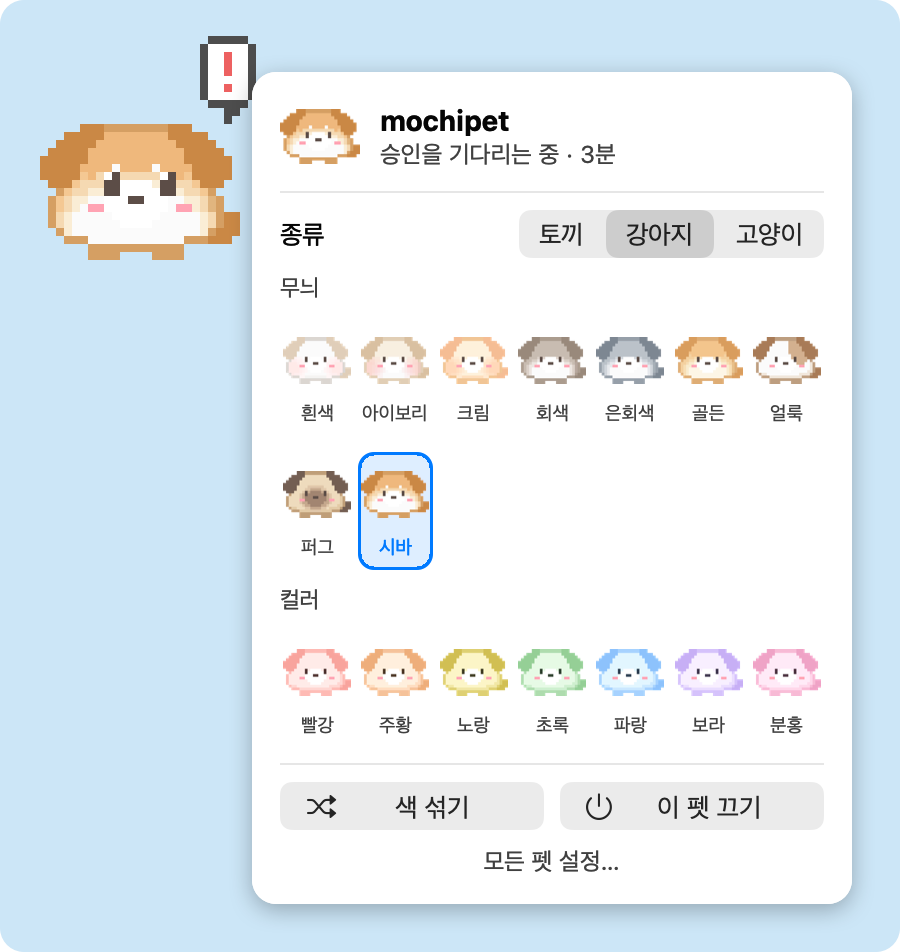
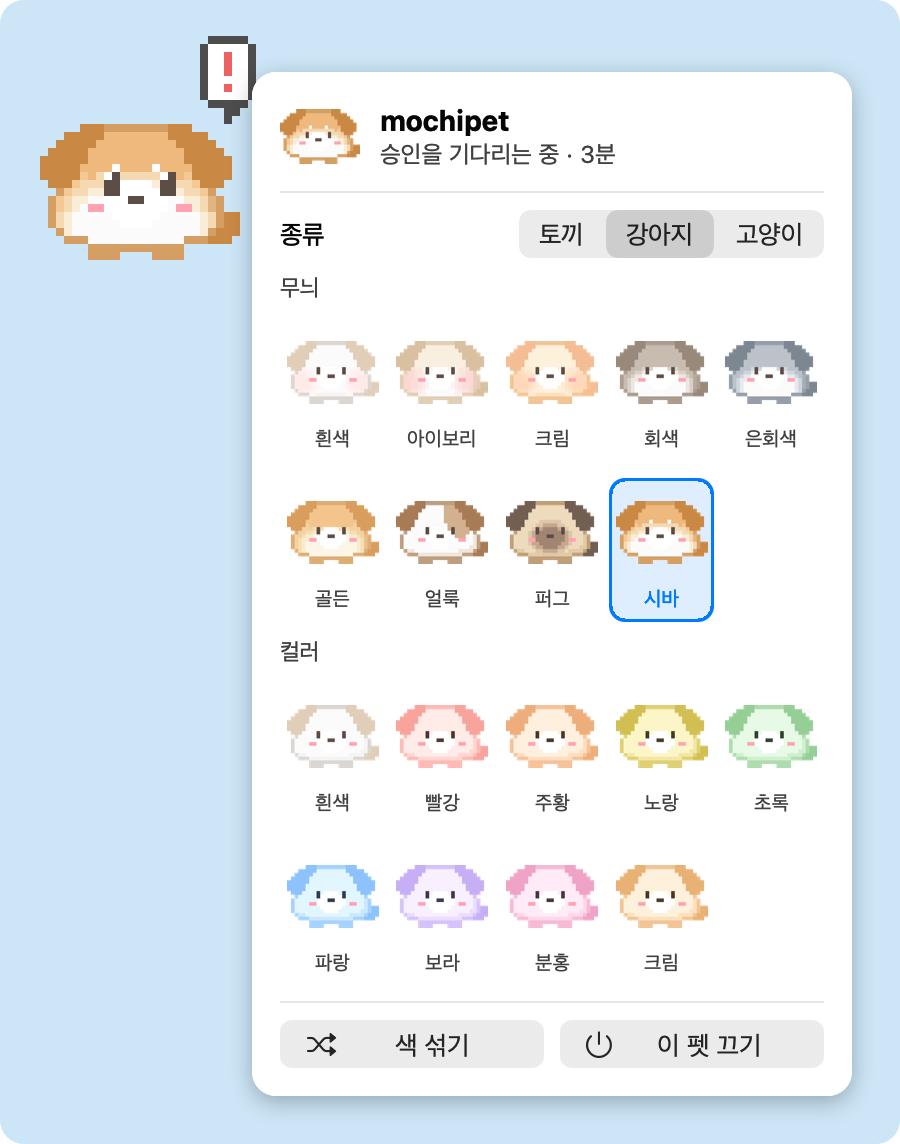
fix: 펫 우클릭 판이 버벅이거나 안 닫히거나 저절로 닫히던 것을 고침
* 판을 펫 창이 아니라 펫 자리에 깔아 둔 투명한 창에 붙임. 펫이 걸어가면 판이 따라 움직이거나 저절로 닫혔기 때문
* 판 밖을 누르면 닫히게 마우스 누름을 직접 지켜봄. Dock 에 없는 앱이라 판이 알아서 닫히지 않았기 때문
* 종류나 색을 바꾸면 세션 파일을 바로 읽어서 판을 다시 그림. 다음 sync 를 0.6초 기다리느라 버벅였기 때문
* 얼굴 그림의 빈 둘레를 찾을 때 픽셀마다 색을 묻지 않고 알파 바이트를 바로 읽음. 종류를 바꿀 때마다 느렸기 때문
* 색 칸을 한 줄 다섯 개로 키우고 컬러 줄에 흰색과 크림을 넣음. README 의 색상 그림과 같게 하려는 것
* '모든 펫 설정' 줄을 뺌. 느리고 버그가 있었기 때문
* 메뉴 막대 판의 목록이 다섯 줄을 넘으면 'N마리 더 (스크롤)' 을 적고, README 의 메뉴 그림도 일곱 마리로 뽑음

Changed region(s): [[0.0311, 0.0305, 0.9644, 0.9748], [0.9956, 0.9748, 1.0, 1.0]]

diff --git a/Sources/main.swift b/Sources/main.swift
@@ -342,6 +342,10 @@ func recolor(_ id: String, _ want: String) {
           let line = coatName(want, kind: now[5]) ?? (coats.contains { $0.en == want } ? nil : hueLine(want.isEmpty ? nil : want, kind: now[5], except: f)) else { return }
     now[3] = line; writeSession(f, now)
 }
+func setLook(_ id: String, _ line: String) {        // 색 줄에 적을 값을 그대로 적는다 (우클릭 판의 칸을 눌렀을 때)
+    guard let f = file(id), var now = readSession(f) else { return }
+    now[3] = line; writeSession(f, now)
+}
 func setKind(_ id: String, _ k: String) {
     guard let f = file(id), var now = readSession(f) else { return }
     now[5] = k
@@ -356,11 +360,13 @@ func portrait(kind: String, coat: String, hue: CGFloat?) -> NSImage {
     if let p = portraits[key] { return p }
     let img = drawn("idle_0", hue: hue, kind: kind, coat: coat)
     guard let cg = img.cgImage(forProposedRect: nil, context: nil, hints: nil) else { return img }
-    let rep = NSBitmapImageRep(cgImage: cg)
-    var x0 = rep.pixelsWide, x1 = -1, y0 = rep.pixelsHigh, y1 = -1
-    for y in 0..<rep.pixelsHigh {
-        for x in 0..<rep.pixelsWide where (rep.colorAt(x: x, y: y)?.alphaComponent ?? 0) > 0.05 { x0 = min(x0, x); x1 = max(x1, x); y0 = min(y0, y); y1 = max(y1, y) }
-    }
+    // 알파만 8비트로 다시 그려서 바이트를 바로 읽는다. 픽셀마다 색을 묻는 것보다 훨씬 빠르다
+    let w = cg.width, h = cg.height
+    var alpha = [UInt8](repeating: 0, count: w * h)
+    guard let ctx = CGContext(data: &alpha, width: w, height: h, bitsPerComponent: 8, bytesPerRow: w, space: CGColorSpaceCreateDeviceGray(), bitmapInfo: CGImageAlphaInfo.alphaOnly.rawValue) else { return img }
+    ctx.draw(cg, in: CGRect(x: 0, y: 0, width: w, height: h))
+    var x0 = w, x1 = -1, y0 = h, y1 = -1
+    for y in 0..<h { for x in 0..<w where alpha[y * w + x] > 12 { x0 = min(x0, x); x1 = max(x1, x); y0 = min(y0, y); y1 = max(y1, y) } }
     guard x1 >= x0, let cut = cg.cropping(to: CGRect(x: x0, y: y0, width: x1 - x0 + 1, height: y1 - y0 + 1)) else { return img }
     let p = NSImage(cgImage: cut, size: NSSize(width: cut.width, height: cut.height))
     portraits[key] = p
@@ -379,10 +385,9 @@ func appIcon(_ side: CGFloat) -> NSImage {
 }
 
 // 펫 우클릭 판: 머리말(얼굴, 이름, 상태), 종류, 무늬, 컬러, 색 섞기, 이 펫 끄기. 메뉴 막대 판과 같은 모양으로 그린다
-final class Card: NSObject {
+final class Card: NSObject, NSPopoverDelegate {
     let pop = NSPopover()
     var id = ""
-    weak var anchor: NSView?
 
     // 판을 그 펫의 지금 상태로 만든다. 무늬는 그 종류가 쓰는 것만 그 종류의 얼굴로 보여 준다
     func view(for r: Row) -> NSView {
@@ -407,30 +412,31 @@ final class Card: NSObject {
         kinds.selectedSegment = builtinKinds.firstIndex(of: r.kind) ?? 0
         add(bar.line(bar.text("종류"), kinds))
 
-        // 한 줄에 일곱 칸. 칸마다 얼굴과 이름을 두고, 지금 색인 칸에 테두리를 두른다
-        func grid(_ title: String, _ items: [(name: String, want: String, coat: String, hue: CGFloat?)]) {
+        // 한 줄에 다섯 칸. 칸마다 얼굴과 이름을 두고, 지금 색인 칸에 테두리를 두른다
+        func grid(_ title: String, _ items: [(name: String, line: String)]) {     // line 은 세션 파일의 색 줄에 적을 값이다
             add(bar.text(title, 11.5, gray: true))
-            for start in stride(from: 0, to: items.count, by: 7) {
-                let cells: [NSView] = (start..<start + 7).map { i in
+            for start in stride(from: 0, to: items.count, by: 5) {
+                let cells: [NSView] = (start..<start + 5).map { i in
                     guard i < items.count else { return NSView() }
-                    let it = items[i], on = picked(it.want, line: r.look) || it.want == lookName(r.look, kind: r.kind)
-                    let name = bar.text(it.name, 9.5, gray: true); name.alignment = .center
+                    let it = items[i], on = lookName(r.look, kind: r.kind) == it.line
+                    let name = bar.text(it.name, 10, gray: true); name.alignment = .center
                     if on { name.textColor = .controlAccentColor }
-                    let col = NSStackView(views: [face(34, coat: it.coat, hue: it.hue), name]); col.orientation = .vertical; col.spacing = 4
+                    let col = NSStackView(views: [face(46, coat: Double(it.line) == nil ? it.line : "", hue: Double(it.line).map { CGFloat($0) }), name]); col.orientation = .vertical; col.spacing = 4
                     let cell = RowView(); cell.wantsLayer = true; cell.layer?.cornerRadius = 8
                     if on { cell.layer?.backgroundColor = NSColor.controlAccentColor.withAlphaComponent(0.13).cgColor; cell.layer?.borderColor = NSColor.controlAccentColor.cgColor; cell.layer?.borderWidth = 1.5 }
                     cell.addSubview(col); col.translatesAutoresizingMaskIntoConstraints = false
                     NSLayoutConstraint.activate([col.centerXAnchor.constraint(equalTo: cell.centerXAnchor), col.topAnchor.constraint(equalTo: cell.topAnchor, constant: 4),
                                                  col.bottomAnchor.constraint(equalTo: cell.bottomAnchor, constant: -5)])
-                    cell.onClick = { [weak self] in recolor(r.id, it.want); self?.reload(soon: true) }
+                    cell.onClick = { [weak self] in setLook(r.id, it.line); self?.reload() }
                     return cell
                 }
                 let row = NSStackView(views: cells); row.distribution = .fillEqually; row.spacing = 2
                 add(row)
             }
         }
-        grid("무늬", coats.filter { wears(r.kind, $0) }.map { ($0.ko, $0.en, $0.en, nil) })
-        grid("컬러", colors.map { ($0.ko, $0.en, "", CGFloat($0.degrees / 360)) })
+        // README 의 색상 그림과 같은 순서다. 무늬는 그 종류가 쓰는 것만, 컬러는 흰색, 색상환 색, 크림 순이다
+        grid("무늬", coats.filter { wears(r.kind, $0) }.map { ($0.ko, $0.en) })
+        grid("컬러", [("흰색", "plain")] + colors.map { ($0.ko, String($0.degrees / 360)) } + [("크림", String(creamHue))])
         rule()
 
         let mix = NSButton(title: "색 섞기", image: bar.symbol("shuffle"), target: self, action: #selector(shuffle))
@@ -438,37 +444,54 @@ final class Card: NSObject {
         for b in [mix, off] { b.imagePosition = .imageLeading; b.bezelStyle = .rounded }
         let buttons = NSStackView(views: [mix, off]); buttons.distribution = .fillEqually; buttons.spacing = 8
         add(buttons)
-        // 메뉴 막대가 꽉 찬 화면에서는 발바닥 아이콘이 노치 뒤로 밀려 안 보이므로, 모든 펫의 설정을 여기서도 열 수 있게 한다
-        let all = NSButton(title: "모든 펫 설정…", target: self, action: #selector(openAll)); all.isBordered = false; all.contentTintColor = .secondaryLabelColor
-        all.font = .systemFont(ofSize: 12)
-        add(all)
         return root
     }
 
+    // 판은 펫 자리에 깔아 둔 투명한 창에 붙인다. 펫 창에 바로 붙이면 펫이 걸어갈 때 판이 따라 움직이거나 저절로 닫힌다
     func show(_ id: String, at v: NSView) {
-        self.id = id; anchor = v
-        guard let r = bar.rows().first(where: { $0.id == id }) else { return }
+        guard let from = v.window?.frame else { return }
+        self.id = id
+        guard let r = current() else { return }
+        spot.setFrame(from, display: false); spot.orderFrontRegardless()
         let vc = NSViewController(); vc.view = view(for: r)
-        pop.contentViewController = vc; pop.behavior = .transient; pop.contentSize = vc.view.fittingSize
-        pop.show(relativeTo: v.bounds, of: v, preferredEdge: .maxX)
-        NSApp.activate(ignoringOtherApps: true)              // 판 밖을 누르면 닫히게 한다
+        pop.contentViewController = vc; pop.animates = false; pop.delegate = self; pop.contentSize = vc.view.fittingSize
+        pop.show(relativeTo: spot.contentView!.bounds, of: spot.contentView!, preferredEdge: .maxX)
+        NSApp.activate(ignoringOtherApps: true)
+        watch()
     }
-    // 바꾼 것이 세션 파일에서 펫으로 넘어온 뒤(다음 sync)에 판을 다시 그린다
-    func reload(soon: Bool) {
-        DispatchQueue.main.asyncAfter(deadline: .now() + (soon ? 0.6 : 0)) { [weak self] in
-            guard let self = self, self.pop.isShown, let r = bar.rows().first(where: { $0.id == self.id }) else { return }
-            let v = self.view(for: r); self.pop.contentViewController?.view = v; self.pop.contentSize = v.fittingSize
-        }
+    lazy var spot: NSPanel = {
+        let w = NSPanel(contentRect: .zero, styleMask: [.borderless, .nonactivatingPanel], backing: .buffered, defer: false)
+        w.isOpaque = false; w.backgroundColor = .clear; w.ignoresMouseEvents = true; w.level = .floating; w.contentView = NSView()
+        return w
+    }()
+
+    // 판 밖을 누르면 닫는다. 펫 앱은 Dock 에 없는 앱이라 판이 알아서 닫히지 않을 때가 있어서 직접 지켜본다
+    var watchers: [Any] = []
+    func watch() {
+        unwatch()
+        let downs: NSEvent.EventTypeMask = [.leftMouseDown, .rightMouseDown]
+        if let g = NSEvent.addGlobalMonitorForEvents(matching: downs, handler: { [weak self] _ in self?.pop.close() }) { watchers.append(g) }
+        if let l = NSEvent.addLocalMonitorForEvents(matching: downs, handler: { [weak self] e in
+            if let me = self, e.window != me.pop.contentViewController?.view.window { me.pop.close() }
+            return e
+        }) { watchers.append(l) }
     }
-    @objc func pickKind(_ c: NSSegmentedControl) { setKind(id, builtinKinds[c.selectedSegment]); reload(soon: true) }
-    @objc func shuffle() { recolor(id, ""); reload(soon: true) }
+    func unwatch() { watchers.forEach(NSEvent.removeMonitor); watchers = [] }
+    func popoverDidClose(_ n: Notification) { unwatch() }
+
+    // 이 펫의 지금 모습을 세션 파일에서 바로 읽는다. 다음 sync 를 기다리지 않아서 누르자마자 판이 바뀐다
+    func current() -> Row? { file(id).flatMap(readSession).map { bar.row(id, $0) } }
+    func reload() {
+        guard pop.isShown, let r = current() else { return }
+        let v = view(for: r); pop.contentViewController?.view = v; pop.contentSize = v.fittingSize
+    }
+    @objc func pickKind(_ c: NSSegmentedControl) { setKind(id, builtinKinds[c.selectedSegment]); reload() }
+    @objc func shuffle() { recolor(id, ""); reload() }
     @objc func dismiss() { petOff(id); pop.close() }
-    @objc func openAll() { pop.close(); if let v = anchor { bar.open(from: v, edge: .maxX) } }
 }
 
 // 메뉴 막대 아이콘. 누르면 판이 열린다: 세션 목록, 모으기·색 섞기, 날지 않기·모두 숨기기·랜덤, 투명도·크기.
 // 투명도, 크기, 날지 않기는 UserDefaults 에 남기고, 숨김은 남기지 않는다. 펫이 하나도 없으면 앱이 끝나므로 아이콘도 사라진다.
-// 메뉴 막대가 꽉 찬 화면에서는 아이콘이 노치 뒤로 밀려 안 보이므로, 펫 우클릭 판의 "모든 펫 설정" 에서도 이 판을 연다.
 // 판의 세션 한 줄. since 는 지금 상태가 된 시각이고, host 는 눌렀을 때 열 곳이다 (세션 파일 셋째 줄)
 struct Row { var id, name, state: String, since: Date, kind, look: String, host: String    // look 은 세션 파일의 색 줄 (무늬 이름이나 색상환 위치)
     var coat: String { Double(look) == nil ? look : "" }
@@ -494,7 +517,7 @@ final class Bar: NSObject {
     lazy var item = NSStatusBar.system.statusItem(withLength: NSStatusItem.variableLength)
     var sliders: [(view: NSSlider, now: () -> Double, text: NSTextField, say: () -> String)] = []   // 슬라이더, 지금 값, 값을 적는 글자
     let pop = NSPopover()
-    let list = TopDown(), scroll = NSScrollView(), subtitle = NSTextField(labelWithString: "")
+    let list = TopDown(), scroll = NSScrollView(), subtitle = NSTextField(labelWithString: ""), more = NSTextField(labelWithString: "")
     let ground = NSSwitch(), hide = NSSwitch(), random = NSSegmentedControl(labels: ["무늬", "컬러"], trackingMode: .selectOne, target: nil, action: nil)
     var times: [(since: Date, text: NSTextField)] = []      // 줄마다의 지난 시간. 줄을 다시 만들지 않고 글자만 고친다
     var listed = "", listHeight: NSLayoutConstraint?
@@ -554,7 +577,8 @@ final class Bar: NSObject {
         scroll.documentView = list; scroll.drawsBackground = false; scroll.hasVerticalScroller = true; scroll.autohidesScrollers = true
         list.widthAnchor.constraint(equalTo: scroll.contentView.widthAnchor).isActive = true
         listHeight = scroll.heightAnchor.constraint(equalToConstant: rowHeight); listHeight?.isActive = true
-        add(scroll); rule()
+        more.font = .systemFont(ofSize: 11.5); more.textColor = .secondaryLabelColor; more.alignment = .center
+        add(scroll); add(more); rule()
 
         let gatherAll = NSButton(title: "모으기", image: symbol("display"), target: self, action: #selector(gather))
         let mix = NSButton(title: "색 섞기", image: symbol("shuffle"), target: self, action: #selector(shuffleAll))
@@ -581,10 +605,11 @@ final class Bar: NSObject {
     // 떠 있는 펫을 판에 올릴 줄로 바꾼다. 지난 시간은 세션 파일이 마지막으로 바뀐 시각부터 센다
     // ponytail: 색이나 이름을 바꿔도 파일이 바뀌어서 시간이 0 으로 돌아간다. 거슬리면 상태가 바뀐 시각을 파일에 따로 적는다
     func rows() -> [Row] {
-        sessions.shown.map { id, l in
-            Row(id: id, name: sessions.pets[id]?.label ?? "", state: l[0], since: file(id).map(modified) ?? Date(),
-                kind: l[5].isEmpty ? defaultKind : l[5], look: l[3], host: l[2])
-        }
+        sessions.shown.map { row($0, $1) }
+    }
+    func row(_ id: String, _ l: [String]) -> Row {
+        Row(id: id, name: sessions.pets[id]?.label ?? "", state: l[0], since: file(id).map(modified) ?? Date(),
+            kind: l[5].isEmpty ? defaultKind : l[5], look: l[3], host: l[2])
     }
 
     // 세션 목록과 머리말을 채운다. 줄의 내용이 그대로면 지난 시간만 고친다 (스크롤 자리가 유지된다)
@@ -616,18 +641,17 @@ final class Bar: NSObject {
                 list.addArrangedSubview(v); v.widthAnchor.constraint(equalTo: list.widthAnchor).isActive = true
             }
             listHeight?.constant = rowHeight * CGFloat(min(max(rows.count, 1), maxRows))
+            more.stringValue = "⌄ \(rows.count - maxRows)마리 더 (스크롤)"; more.isHidden = rows.count <= maxRows   // 목록에 다 안 보일 때만 알린다
         }
         for t in times { t.text.stringValue = ago(t.since) }
     }
 
     @objc func toggle() {
-        if pop.isShown { pop.close() } else if let b = item.button { open(from: b, edge: .minY) }
-    }
-    // 판을 연다. 메뉴 막대 아이콘에서도, 펫 우클릭 판의 "모든 펫 설정" 에서도 연다
-    func open(from v: NSView, edge: NSRectEdge) {
+        guard let b = item.button else { return }
+        if pop.isShown { pop.close(); return }
         fill(rows()); refresh()
         pop.contentSize = panel.fittingSize
-        pop.show(relativeTo: v.bounds, of: v, preferredEdge: edge)
+        pop.show(relativeTo: b.bounds, of: b, preferredEdge: .minY)
         NSApp.activate(ignoringOtherApps: true)              // 판 밖을 누르면 닫히게 한다
     }
 

diff --git a/Sources/gallery.swift b/Sources/gallery.swift
@@ -125,7 +125,7 @@ func exportGallery(to dir: URL) throws {
 }
 
 // 메뉴 막대의 발바닥 아이콘과 거기서 열리는 판을 그린다. 판은 앱이 쓰는 뷰(main.swift 의 Bar.panel)를 그대로 찍는다.
-// 화면을 찍은 그림은 다른 아이콘과 뒤 배경이 같이 찍혀서, 예시 세션 셋을 넣은 판만 따로 찍는다
+// 화면을 찍은 그림은 다른 아이콘과 뒤 배경이 같이 찍혀서, 예시 세션 일곱을 넣은 판만 따로 찍는다
 // 화면 밖 창에 뷰를 얹어서 밝은 모양으로 찍는다
 private func snapshot(_ v: NSView) -> NSBitmapImageRep {
     _ = NSApplication.shared
@@ -159,9 +159,9 @@ private func contextPicture() -> NSBitmapImageRep {
 private func menuPicture() -> NSBitmapImageRep {
     let b = Bar(), t = Date()
     scale = 1; opacity = 1; grounded = false; hidden = false     // 저장해 둔 설정과 상관없이 같은 그림이 나오게 한다
-    b.fill([Row(id: "a", name: "결제 버그 수정", state: "waiting", since: t - 182, kind: "bunny", look: "", host: ""),
-            Row(id: "b", name: "mochipet", state: "working", since: t - 41, kind: "dog", look: "", host: ""),
-            Row(id: "c", name: "문서 정리", state: "done", since: t - 720, kind: "cat", look: "", host: "")])
+    let sample: [(String, String, Double, String, String)] = [("결제 버그 수정", "waiting", 182, "bunny", ""), ("배포 스크립트", "waiting", 18, "cat", "golden"), ("mochipet", "working", 41, "dog", ""),
+        ("infra-admin", "working", 130, "bunny", "ivory"), ("로그 조사", "working", 420, "dog", "shiba"), ("문서 정리", "done", 720, "cat", ""), ("테스트 추가", "idle", 3700, "bunny", "cream")]
+    b.fill(sample.enumerated().map { i, x in Row(id: "\(i)", name: x.0, state: x.1, since: t - x.2, kind: x.3, look: x.4, host: "") })   // 다섯 줄을 넘겨서 "더" 표시가 보이게 한다
     let v = b.panel
     b.refresh(); b.random.selectedSegment = 0
     let shot = snapshot(v)
@@ -172,7 +172,7 @@ private func menuPicture() -> NSBitmapImageRep {
         if let paw = NSImage(systemSymbolName: "pawprint.fill", accessibilityDescription: nil)?.withSymbolConfiguration(.init(pointSize: 13, weight: .medium)) {
             paw.draw(in: NSRect(x: w / 2 - 14, y: h - 15 - paw.size.height / 2, width: paw.size.width, height: paw.size.height))
         }
-        ("1" as NSString).draw(at: NSPoint(x: w / 2 + 6, y: h - 23), withAttributes: [.font: NSFont.boldSystemFont(ofSize: 12), .foregroundColor: NSColor.systemOrange])
+        ("2" as NSString).draw(at: NSPoint(x: w / 2 + 6, y: h - 23), withAttributes: [.font: NSFont.boldSystemFont(ofSize: 12), .foregroundColor: NSColor.systemOrange])
         panel(shot, in: NSRect(x: 12, y: 16, width: v.bounds.width, height: v.bounds.height))
     }
 }
